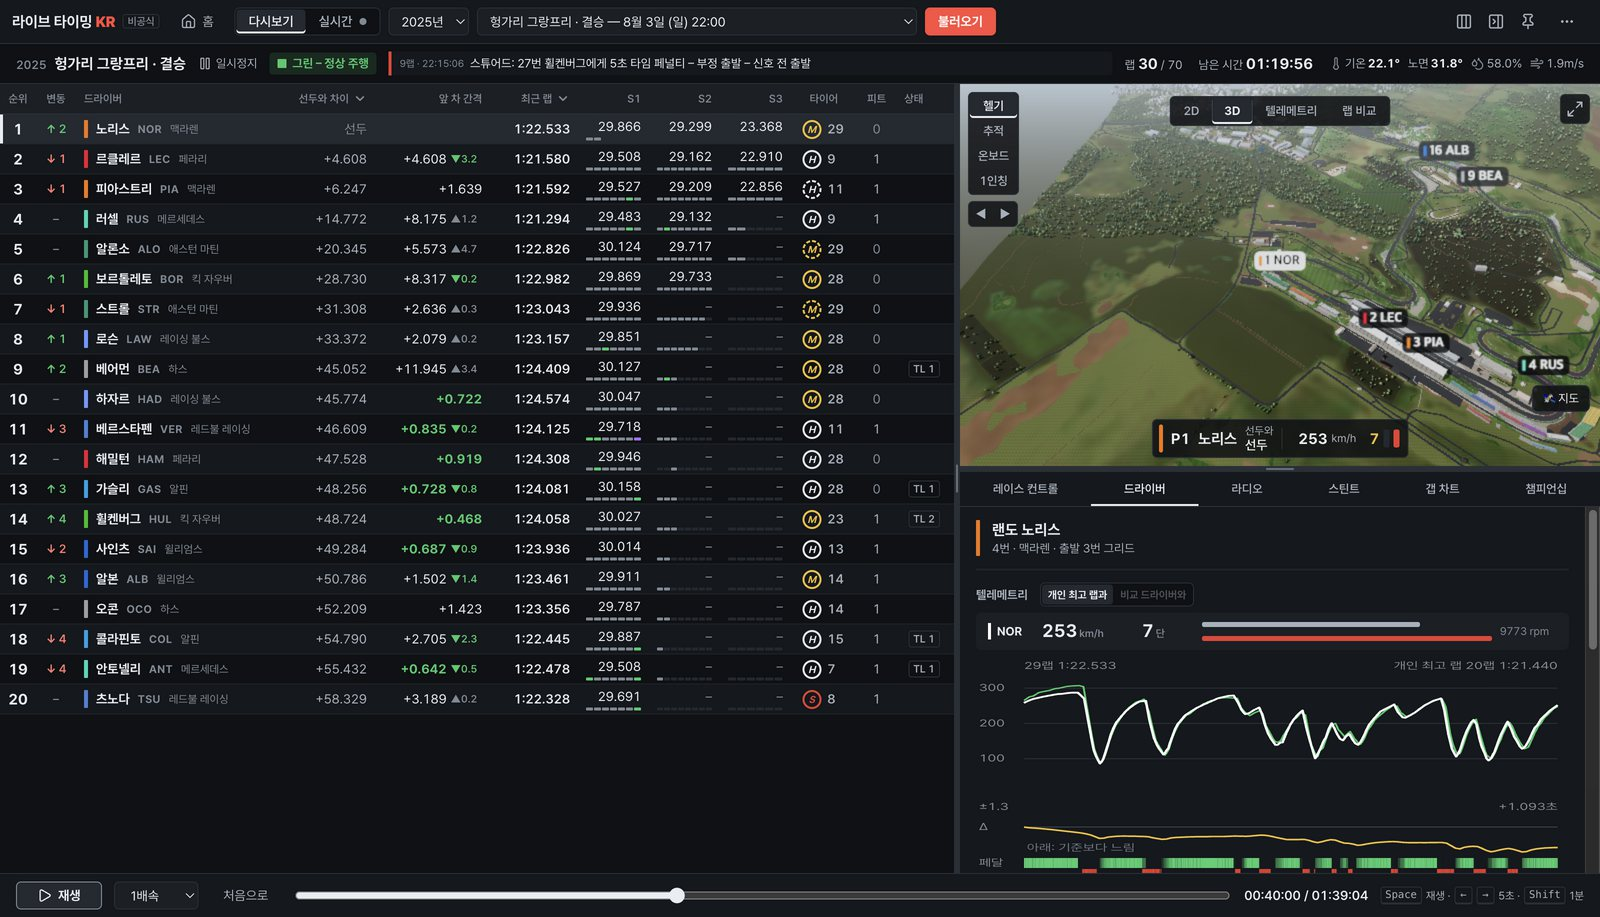
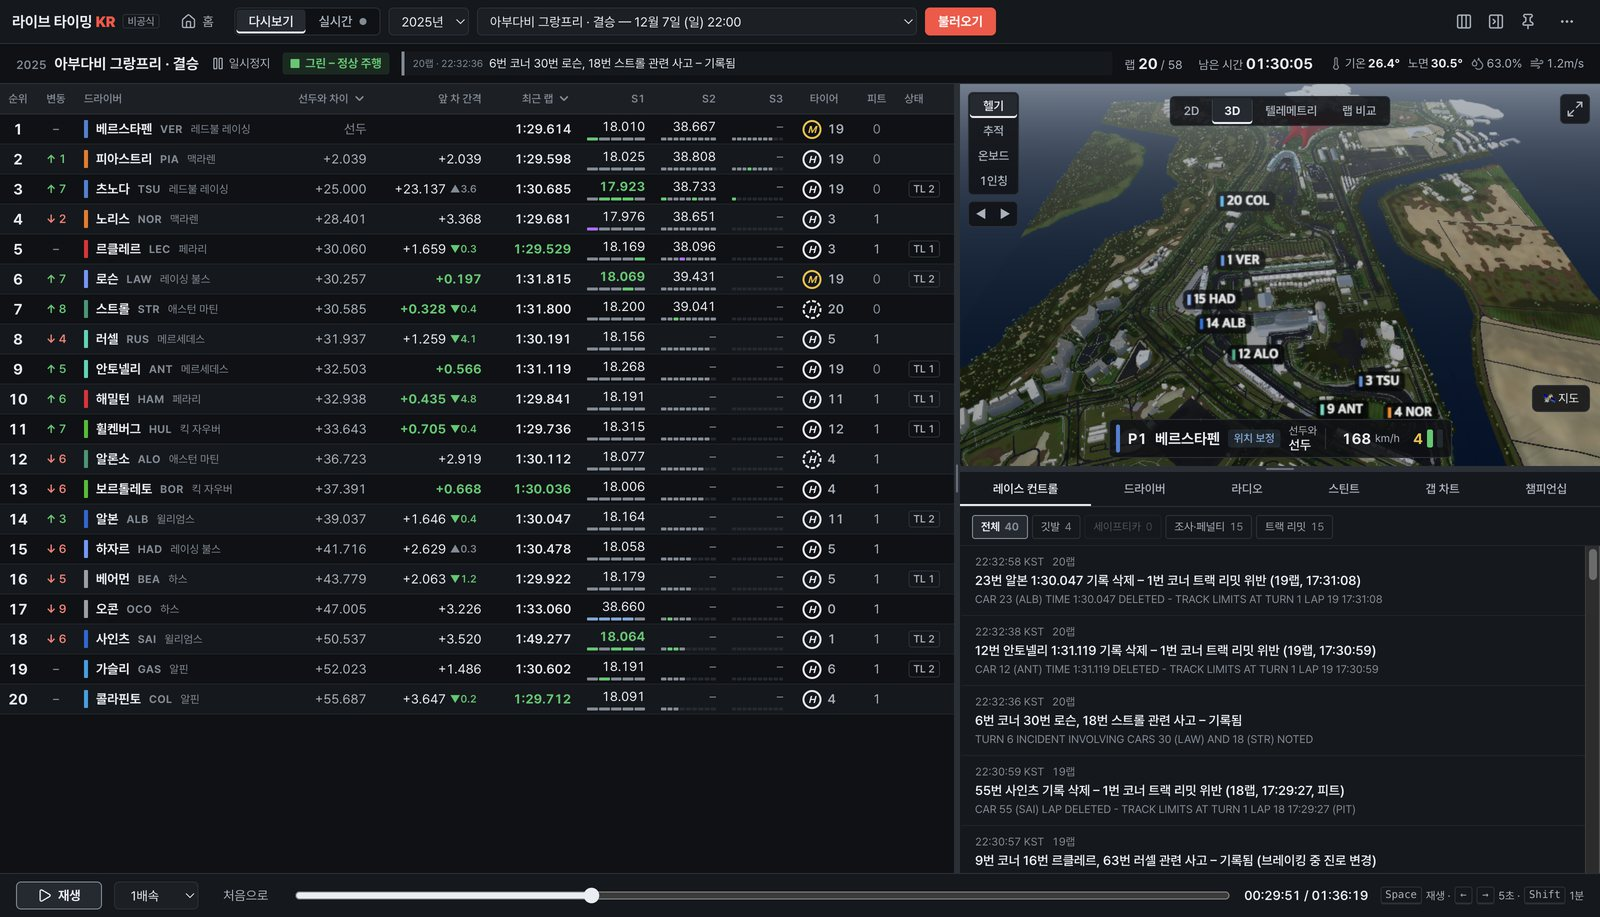
README hero photo: 2025 Abu Dhabi race from the sky (the whole Yas Marina circuit in the 3D view)
The old hero followed one car low in the helicopter view and showed mostly grass. Re-shot with no
car followed, so the helicopter view frames the circuit (same app version, the work cache).
Alt text updated; README 1,195 words (wc -w).

diff --git a/README.md b/README.md
@@ -2,7 +2,7 @@
 
 F1 세션을 한국어로 보는 개인용 데스크톱 앱입니다. Formula 1과 관련 없는 비공식 프로젝트입니다.
 
-![2025 헝가리 결승 다시보기: 한국어 순위표, 3D 헬기 시점 서킷, 노리스의 텔레메트리](docs/images/hero.jpg)
+![2025 아부다비 결승 다시보기: 한국어 순위표와 하늘에서 본 3D 야스 마리나 서킷](docs/images/hero.jpg)
 
 ## 목적과 사용자
 
